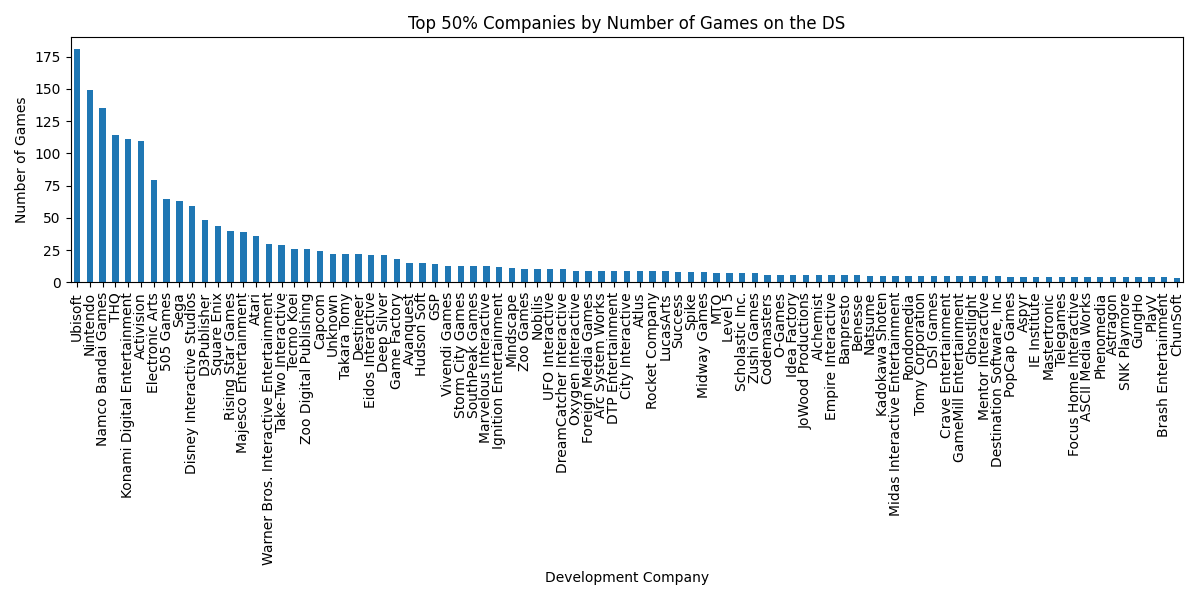
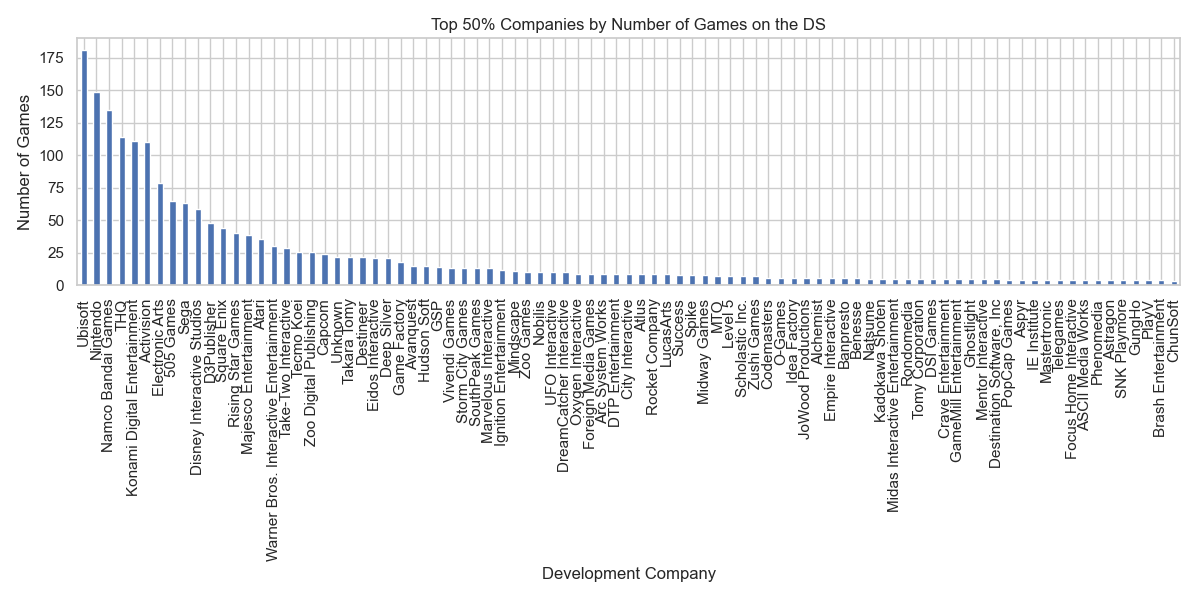
Added Jeffrey's Graphs

Changed region(s): [[0.0, 0.03, 0.9867, 0.93], [0.4625, 0.93, 0.5858, 0.99], [0.8633, 0.72, 0.8942, 0.75]]

diff --git a/program.py b/program.py
@@ -1,27 +1,78 @@
-#Question: How many games were made for each console?
 import pandas as pd
 import matplotlib.pyplot as plt
 import seaborn as sns
 
 df = pd.read_csv("data.csv")
-
+df['Year'] = df['Year'].astype('Int64')
 
 #drop the null values and duplicates 
 df.drop_duplicates(inplace = True)
 df.dropna(subset=['Year'],inplace=True)
 df.dropna(subset=['Publisher'],inplace=True)
 
-#General groupings 
-platform_groups = {platform: data for platform, data in df.groupby('Platform')}
+# ---------------------------------------------------------
+#                     JEFFREY'S GRAPHS
+# ---------------------------------------------------------
+#Graph settings
 
-genre_groups = {genre: data for genre, data in df.groupby('Genre')}
+sns.set_theme(style="whitegrid", palette="deep")
 
-publisher_groups = {publisher: data for publisher, data in df.groupby('Publisher')}
+# --- GRAPH 1: Total Global Video Game Sales Over Time ---
+sales_per_year = df.groupby('Year')['Global_Sales'].sum().reset_index()
+
+sns.lineplot(data=sales_per_year, x = "Year", y = "Global_Sales", marker = 'o', palette="flare")
+plt.title("Total Global Video Game Sales Over Time")
+plt.xlabel("Year")
+plt.ylabel("Global Sales (Millions)")
+plt.tight_layout()
+plt.savefig("sales_over_time.png")
+plt.show()
+
+# --- GRAPH 2: Number of Games Released Per Year ---
+plt.figure(figsize=(12,6))
+games_per_year = df.groupby('Year')['Name'].count().reset_index()
+
+sns.barplot(data=games_per_year, x='Year', y='Name', palette='crest')
+plt.title("Number of Games Released Per Year")
+plt.xlabel("Year")
+plt.ylabel("Number of Games")
+plt.tight_layout()
+plt.xticks(rotation=45)
+plt.savefig("games_per_year.png")
+plt.show()
+
+# --- GRAPH 3: Market Share of Top 10 Platforms ---
+platform_sales = df.groupby('Platform')['Global_Sales'].sum().sort_values(ascending=False).head(10)
+colors = sns.color_palette("Paired", 10)
+
+plt.figure(figsize=(10,10))
+plt.axis('equal')
+plt.pie(platform_sales.values, labels=platform_sales.index, autopct='%1.1f%%', startangle=90, colors=colors)
+plt.title("Market Share of Top 10 Platforms")
+plt.tight_layout()
+plt.savefig("platform_market_share.png")
+plt.show()
+exit()
+# --- GRAPH 4: Genre Sales by Region (NA, EU, JP) ---
+region_genre = df.groupby('Genre')[['NA_Sales', 'EU_Sales', 'JP_Sales']].sum().reset_index()
+
+region_genre_long = region_genre.melt( id_vars='Genre', value_vars=['NA_Sales', 'EU_Sales', 'JP_Sales'], var_name='Region', value_name='Sales')
 
 
-#                                               ADAM
+sns.barplot(data=region_genre_long, x='Genre', y='Sales', hue='Region', palette='bright')
+plt.title("Genre Sales by Region")
+plt.xlabel("Genre")
+plt.ylabel("Sales (Millions)")
+plt.xticks(rotation=45)
+plt.tight_layout()
+plt.savefig("genre_by_region.png")
+plt.show()
 
-#count the number of games per console
+# ---------------------------------------------------------
+#                        ADAM'S GRAPHS
+# ---------------------------------------------------------
+#Question: How many games were made for each console?
+# --- GRAPH 5: Number of Games per Console ---
 counts = df['Platform'].value_counts()
 
 #plotting the data frame
@@ -35,6 +86,9 @@ plt.title("Number of Games per Console")
 plt.tight_layout()
 plt.savefig('games_per_console.png')
 plt.show()
+
+
+# --- GRAPH 6: Publishers with Most PS2 Games ---
 
 #Question: How many games did each developer make for the Play Station 2?
 
@@ -60,6 +114,8 @@ plt.tight_layout()
 plt.savefig('games_on_ps2.png')
 plt.show()
 
+
+# --- GRAPH 7: Publishers with Most DS Games ---
 #Question: How many games did each developer make for the Nintendo DS?
 
 #Filtering so it is only DS games
@@ -83,12 +139,15 @@ plt.tight_layout()
 plt.savefig('games_on_ds.png')
 plt.show()
 
-#                                        Liban
+# ---------------------------------------------------------
+#                         LIBAN'S GRAPHS
+# ---------------------------------------------------------
 
 # Set the visual style
 sns.set(style="whitegrid")
 
-# --- VISUAL 1: Global Sales by Genre ---
+# --- GRAPH 8: Total Global Sales by Genre ---
+
 plt.figure(figsize=(12, 6))
 genre_sales = df.groupby('Genre')['Global_Sales'].sum().sort_values(ascending=False)
 sns.barplot(x=genre_sales.index, y=genre_sales.values, palette="viridis")
@@ -100,7 +159,7 @@ plt.tight_layout()
 plt.savefig('sales_by_genre.png')
 plt.show()
 
-# --- VISUAL 2: Top 10 Platforms by Global Sales ---
+# --- Graph 9: Top 10 Platforms by Global Sales ---
 plt.figure(figsize=(12, 6))
 platform_sales = df.groupby('Platform')['Global_Sales'].sum().sort_values(ascending=False).head(10)
 sns.barplot(x=platform_sales.index, y=platform_sales.values, palette="magma")
@@ -111,7 +170,7 @@ plt.tight_layout()
 plt.savefig('top_platforms.png')
 plt.show()
 
-# --- VISUAL 3: HeatMap ---
+# --- Graph 10: HeatMap of Genre vs. Platform Sales ---
 top_platforms = df.groupby('Platform')['Global_Sales'].sum().sort_values(ascending=False).head(10).index
 heatmap_data = df[df['Platform'].isin(top_platforms)]
 pivot_table = heatmap_data.pivot_table(index='Genre', columns='Platform', values='Global_Sales', aggfunc='sum')
@@ -133,7 +192,7 @@ plt.tight_layout()
 plt.savefig('genre_platform_heatmap.png')
 plt.show()
 
-# --- VISUAL 3: Graph for Top Genres ---
+# --- Graph 11: Evolution of Top Genres Over Time ---
 evolution_data = df[(df['Year'] >= 1995) & (df['Year'] <= 2016)]
 genre_sales_year = evolution_data.groupby(['Year', 'Genre'])['Global_Sales'].sum().unstack()
 
